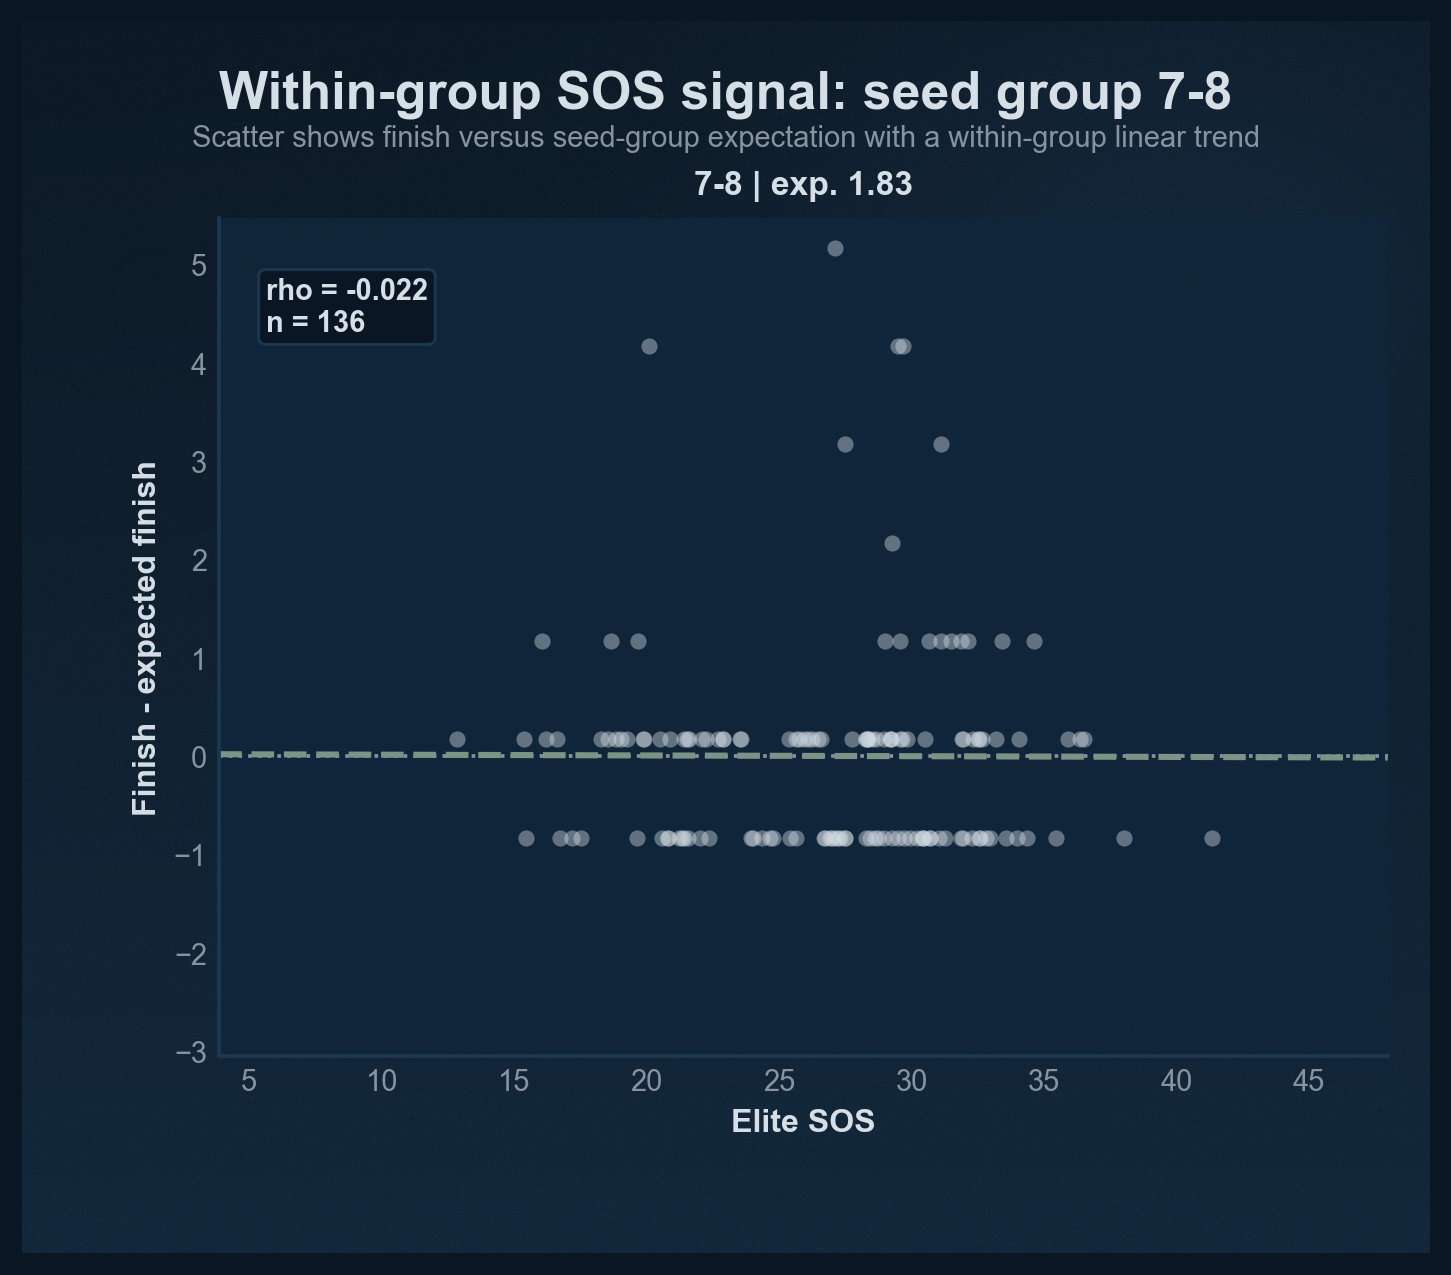
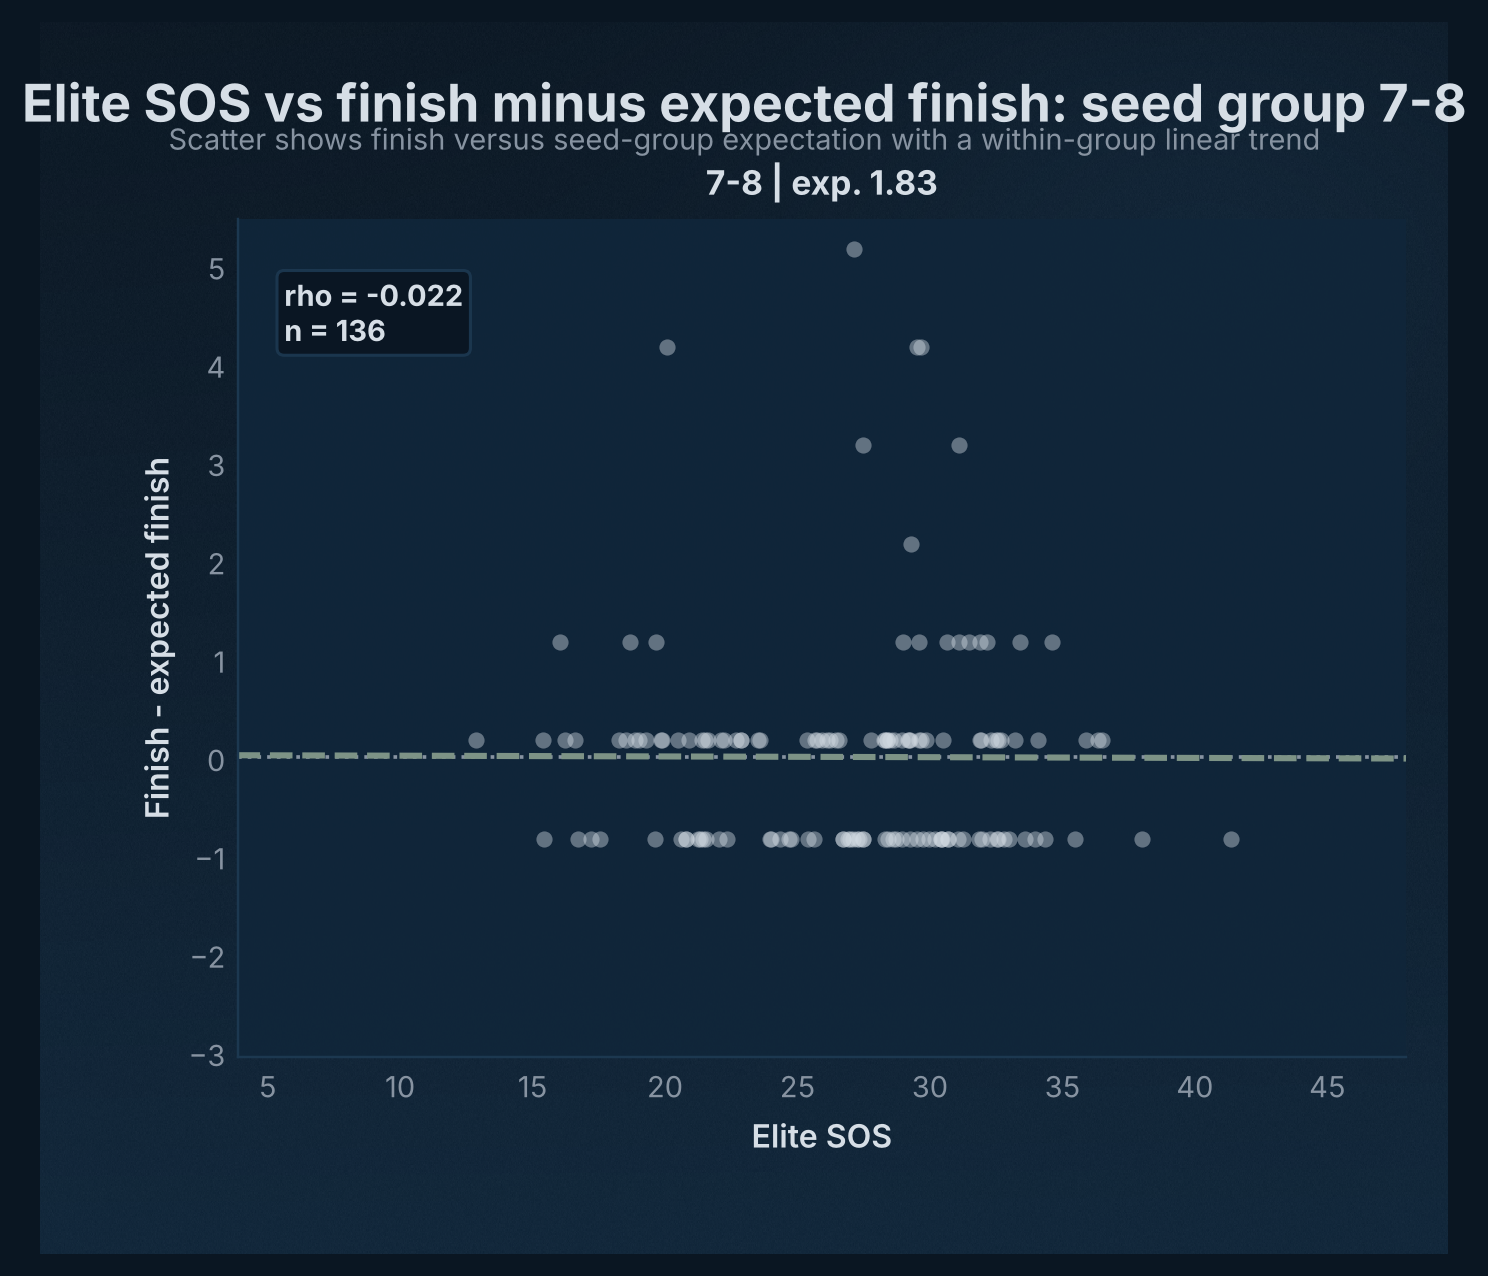
fix(sos): describe what each SOS table measures and correct the heatmap legend

diff --git a/scripts/sos_analysis_02_04.py b/scripts/sos_analysis_02_04.py
@@ -341,7 +341,7 @@ def plot_analysis_02(
     )
 
     fig.suptitle(
-        "Deeper tournament runs came from teams with tougher schedules overall",
+        f"{pretty_metric(primary_metric)} by finish round, all tournaments pooled (raw, not seed-adjusted)",
         fontsize=22,
         fontweight="bold",
         y=0.975,
@@ -537,7 +537,7 @@ def plot_analysis_02_seed_controlled(
     ax.tick_params(axis="x", labelsize=10, length=0, pad=6)
     ax.tick_params(axis="y", labelsize=10, length=0, pad=6)
     fig.suptitle(
-        "After controlling for seed, the SOS relationship is much weaker",
+        f"{pretty_metric(primary_metric)} vs finish, both centered on the exact seed line",
         fontsize=20,
         fontweight="bold",
         y=0.97,
@@ -574,14 +574,6 @@ def build_analysis_03_tables(df: pd.DataFrame, primary_metric: str) -> tuple[pd.
     yearly_df["primary_metric_rho"] = (
         yearly_df["elite_sos_rho"] if primary_metric == "Elite SOS" else yearly_df["conf_avg_barthag_rho"]
     )
-    yearly_df["signal_bucket"] = np.select(
-        [
-            yearly_df["primary_metric_rho"] >= 0.40,
-            yearly_df["primary_metric_rho"] > 0,
-        ],
-        ["Clear positive", "Positive but weaker"],
-        default="Inverse / noisy",
-    )
 
     heatmap = (
         df.groupby(["year", "finish"], as_index=False)[primary_metric]
@@ -604,8 +596,6 @@ def plot_analysis_03(
     rho = yearly_df["primary_metric_rho"].to_numpy(dtype=float)
     strongest = yearly_df.loc[yearly_df["primary_metric_rho"].idxmax()]
     weakest = yearly_df.loc[yearly_df["primary_metric_rho"].idxmin()]
-    positive_count = int((yearly_df["primary_metric_rho"] > 0).sum())
-    clear_count = int((yearly_df["signal_bucket"] == "Clear positive").sum())
 
     cmap = LinearSegmentedColormap.from_list(
         "sos_heatmap",
@@ -644,7 +634,7 @@ def plot_analysis_03(
             bbox=styled_box(),
     )
     ax.annotate(
-        f"Strongest: {int(strongest['year'])}\n{strongest['primary_metric_rho']:.3f}",
+        f"Highest: {int(strongest['year'])}\n{strongest['primary_metric_rho']:.3f}",
         xy=(strongest["year"], strongest["primary_metric_rho"]),
         xytext=(strongest["year"] - 2.5, strongest["primary_metric_rho"] + 0.03),
         arrowprops={"arrowstyle": "->", "color": PROJECT_PALETTE["steel"]},
@@ -653,7 +643,7 @@ def plot_analysis_03(
         bbox=styled_box(),
     )
     ax.annotate(
-        f"Weakest: {int(weakest['year'])}\n{weakest['primary_metric_rho']:.3f}",
+        f"Lowest: {int(weakest['year'])}\n{weakest['primary_metric_rho']:.3f}",
         xy=(weakest["year"], weakest["primary_metric_rho"]),
         xytext=(weakest["year"] + 0.3, weakest["primary_metric_rho"] + 0.03),
         arrowprops={"arrowstyle": "->", "color": PROJECT_PALETTE["steel"]},
@@ -685,7 +675,7 @@ def plot_analysis_03(
     ax.text(
         0.5,
         1.04,
-        "Year-by-year stability",
+        "Raw rho by tournament year",
         transform=ax.transAxes,
         ha="center",
         va="bottom",
@@ -731,7 +721,7 @@ def plot_analysis_03(
     heat_ax.text(
         0.5,
         1.02,
-        "Darker cells mean tougher schedules for teams that reached that round in that year",
+        "Lighter cells mean tougher schedules for teams that reached that round in that year",
         transform=heat_ax.transAxes,
         ha="center",
         va="bottom",
@@ -743,7 +733,7 @@ def plot_analysis_03(
     color_bar.ax.tick_params(labelsize=9.5, length=0)
 
     fig.suptitle(
-        "The SOS signal has peaked in past two years.",
+        f"{pretty_metric(primary_metric)} vs finish by tournament year (raw, not seed-adjusted)",
         fontsize=22,
         fontweight="bold",
         y=0.975,
@@ -850,7 +840,7 @@ def plot_analysis_04(seed_table: pd.DataFrame, seed_points: pd.DataFrame, primar
         ax.set_xlabel(pretty_metric(primary_metric), fontsize=10.5, fontweight="semibold")
 
     fig.suptitle(
-        "Within-group SOS signal is strongest in selective seed bands",
+        f"{pretty_metric(primary_metric)} vs finish minus expected finish, by seed group",
         fontsize=21,
         fontweight="bold",
         y=0.97,
@@ -979,7 +969,7 @@ def plot_analysis_04_individual(
         ax.set_xlabel(pretty_metric(primary_metric), fontsize=10.5, fontweight="semibold")
         ax.set_ylabel("Finish - expected finish", fontsize=10.5, fontweight="semibold")
         fig.suptitle(
-            f"Within-group SOS signal: seed group {seed_group}",
+            f"{pretty_metric(primary_metric)} vs finish minus expected finish: seed group {seed_group}",
             fontsize=17,
             fontweight="bold",
             y=0.96,
@@ -1014,8 +1004,8 @@ def write_analysis_02_summary(
         "",
         f"- Primary metric: `{pretty_metric(primary_metric)}`",
         "- Method: each team is centered against its exact seed-line average finish depth and average SOS.",
-        f"- Headline finding: after controlling for seed, the within-seed Spearman relationship is `{within_seed_rho:.3f}`.",
-        "- Interpretation: the broad pooled gradient is mostly seed structure; the residual SOS relationship inside seed lines is weak.",
+        f"- Measured: with SOS and finish depth both centered on the seed line, the within-seed Spearman relationship is `{within_seed_rho:.3f}`.",
+        "- No significance test here; see `reports/robustness_summary.md` for its bootstrap interval and permutation p-value.",
         "",
         "## Seed Baselines",
         "",
@@ -1039,9 +1029,11 @@ def write_analysis_02_unadjusted_summary(
         "",
         f"- Primary metric: `{pretty_metric(primary_metric)}`",
         f"- Metric rule: {correlation_df['selection_note'].iloc[0]}",
-        f"- Headline finding: champions averaged `{champ_value:.2f}` {pretty_metric(primary_metric)} versus `{r64_value:.2f}` for Round-of-64 exits.",
+        "- Measured: mean and median SOS of the teams that exited in each round, all tournaments pooled, not seed-adjusted.",
+        f"- Champions averaged `{champ_value:.2f}` {pretty_metric(primary_metric)} versus `{r64_value:.2f}` for Round-of-64 exits.",
         f"- Baseline: the field-wide average was `{field_average:.2f}` {pretty_metric(primary_metric)}.",
-        f"- Interpretation: stronger schedules mapped to deeper runs overall, but much of this pooled signal is seed structure.",
+        "- Seed drives both SOS and finish depth, so this gradient is mostly seed structure; the seed-centered view is "
+        "`reports/sos_vs_finish_pooled_summary.md`. No significance test; see `reports/robustness_summary.md`.",
         "",
         "## Pooled Finish Table",
         "",
@@ -1078,15 +1070,17 @@ def write_analysis_03_summary(
         "# SOS Analysis 3: SOS vs Finish by Year",
         "",
         f"- Primary metric: `{pretty_metric(primary_metric)}`",
-        f"- Headline finding: `{positive_count}` of `{len(yearly_df)}` tournament years showed a positive SOS-to-finish relationship.",
-        f"- Strongest year: `{int(strongest['year'])}` at rho `{strongest['primary_metric_rho']:.3f}`.",
-        f"- Weakest year: `{int(weakest['year'])}` at rho `{weakest['primary_metric_rho']:.3f}`.",
-        "- Interpretation: the pooled signal is not a one-off artifact; it shows up every year in this sample.",
+        "- Measured: each tournament year's Spearman correlation between finish depth and SOS, raw and not seed-adjusted.",
+        f"- Positive years: `{positive_count}` of `{len(yearly_df)}`.",
+        f"- Highest year: `{int(strongest['year'])}` at rho `{strongest['primary_metric_rho']:.3f}`.",
+        f"- Lowest year: `{int(weakest['year'])}` at rho `{weakest['primary_metric_rho']:.3f}`.",
+        "- Seed drives both SOS and finish depth, so these raw rhos mostly measure seed structure; the seed-centered view is "
+        "`reports/sos_vs_finish_pooled_summary.md`. No significance test; see `reports/robustness_summary.md`.",
         "",
         "## Yearly Correlations",
         "",
         yearly_df[
-            ["year", "elite_sos_rho", "conf_avg_barthag_rho", "primary_metric_rho", "signal_bucket"]
+            ["year", "elite_sos_rho", "conf_avg_barthag_rho", "primary_metric_rho"]
         ]
         .round(3)
         .to_markdown(index=False),
@@ -1106,9 +1100,10 @@ def write_analysis_04_summary(
         "# SOS Analysis 4: Seed Groups and Finish-vs-Expectation Scatter",
         "",
         f"- Primary metric: `{pretty_metric(primary_metric)}`",
-        f"- Headline finding: seed group `{best_group['seed_group']}` had the strongest within-group Spearman relationship at `{best_group[rho_column]:+.3f}`.",
-        f"- Weakest group: `{weakest_group['seed_group']}` at `{weakest_group[rho_column]:+.3f}`.",
-        "- Interpretation: the SOS signal is not uniform across seed bands; the faceted scatter shows where schedule strength actually tracks overperformance.",
+        "- Measured: inside each seed group, the Spearman correlation between raw SOS and finish minus the group's expected finish depth.",
+        f"- Largest absolute rho: `{best_group['seed_group']}` at `{best_group[rho_column]:+.3f}`.",
+        f"- Smallest absolute rho: `{weakest_group['seed_group']}` at `{weakest_group[rho_column]:+.3f}`.",
+        "- No significance test here; see `reports/robustness_summary.md`, where none of these band cells survives the pooled multiple-comparison check.",
         "",
         "## Seed Group Summary",
         "",

diff --git a/scripts/sos_analysis_05_07.py b/scripts/sos_analysis_05_07.py
@@ -514,7 +514,7 @@ def plot_analysis_05a(over_df: pd.DataFrame, primary_metric: str, metric_summary
     ax.tick_params(axis="x", labelsize=10, length=0, pad=6)
     ax.tick_params(axis="y", labelsize=10, length=0, pad=6)
     fig.suptitle(
-        "Raw SOS barely explains who beats seed expectation",
+        f"{pretty_metric(primary_metric)} vs finish minus exact-seed expectation",
         fontsize=21,
         fontweight="bold",
         y=0.97,
@@ -678,10 +678,14 @@ def plot_analysis_06(era_table: pd.DataFrame, out_path: Path) -> None:
         values = era_table[column].to_numpy(dtype=float)
         ax.plot(x, values, color=ACCENT, linewidth=2.4, marker="o", markersize=7)
         ax.axhline(0, color=SECONDARY, linestyle=":", linewidth=1.2)
+        # Headroom above the highest point keeps its value label below the panel title.
+        low, high = min(float(values.min()), 0.0), max(float(values.max()), 0.0)
+        span = high - low
+        ax.set_ylim(low - 0.10 * span, high + 0.30 * span)
         for idx, value in enumerate(values):
             ax.text(
                 idx,
-                value + 0.018,
+                value + 0.05 * span,
                 f"{value:+.3f}",
                 ha="center",
                 va="bottom",
@@ -702,7 +706,7 @@ def plot_analysis_06(era_table: pd.DataFrame, out_path: Path) -> None:
     axes[-1].set_xlabel("Era", fontsize=11, fontweight="semibold")
     axes[1].set_ylabel("Spearman rho", fontsize=11, fontweight="semibold")
     fig.suptitle(
-        "SOS matters more in modern tournament eras than it did early in the sample",
+        "SOS rho by era: pooled raw, exact-seed adjusted, and seeds 11-13",
         fontsize=21,
         fontweight="bold",
         y=0.97,
@@ -710,7 +714,7 @@ def plot_analysis_06(era_table: pd.DataFrame, out_path: Path) -> None:
     fig.text(
         0.5,
         0.92,
-        "Eras use the 2012 structural shift and the 2022 transfer-rules breakpoint established earlier",
+        "Eras: " + ", ".join(label for label, _, _ in ERAS) + " (2022 = current transfer rules); descriptive, no significance test",
         ha="center",
         va="center",
         fontsize=9.5,

diff --git a/reports/sos_vs_finish_by_year_summary.md b/reports/sos_vs_finish_by_year_summary.md
@@ -1,29 +1,30 @@
 # SOS Analysis 3: SOS vs Finish by Year
 
 - Primary metric: `Elite SOS`
-- Headline finding: `17` of `17` tournament years showed a positive SOS-to-finish relationship.
-- Strongest year: `2025` at rho `0.621`.
-- Weakest year: `2010` at rho `0.329`.
-- Interpretation: the pooled signal is not a one-off artifact; it shows up every year in this sample.
+- Measured: each tournament year's Spearman correlation between finish depth and SOS, raw and not seed-adjusted.
+- Positive years: `17` of `17`.
+- Highest year: `2025` at rho `0.621`.
+- Lowest year: `2010` at rho `0.329`.
+- Seed drives both SOS and finish depth, so these raw rhos mostly measure seed structure; the seed-centered view is `reports/sos_vs_finish_pooled_summary.md`. No significance test; see `reports/robustness_summary.md`.
 
 ## Yearly Correlations
 
-|   year |   elite_sos_rho |   conf_avg_barthag_rho |   primary_metric_rho | signal_bucket       |
-|-------:|----------------:|-----------------------:|---------------------:|:--------------------|
-|   2008 |           0.439 |                  0.445 |                0.439 | Clear positive      |
-|   2009 |           0.499 |                  0.412 |                0.499 | Clear positive      |
-|   2010 |           0.329 |                  0.326 |                0.329 | Positive but weaker |
-|   2011 |           0.358 |                  0.338 |                0.358 | Positive but weaker |
-|   2012 |           0.465 |                  0.45  |                0.465 | Clear positive      |
-|   2013 |           0.41  |                  0.39  |                0.41  | Clear positive      |
-|   2014 |           0.427 |                  0.342 |                0.427 | Clear positive      |
-|   2015 |           0.47  |                  0.405 |                0.47  | Clear positive      |
-|   2016 |           0.426 |                  0.358 |                0.426 | Clear positive      |
-|   2017 |           0.48  |                  0.446 |                0.48  | Clear positive      |
-|   2018 |           0.439 |                  0.405 |                0.439 | Clear positive      |
-|   2019 |           0.535 |                  0.485 |                0.535 | Clear positive      |
-|   2021 |           0.348 |                  0.449 |                0.348 | Positive but weaker |
-|   2022 |           0.494 |                  0.467 |                0.494 | Clear positive      |
-|   2023 |           0.381 |                  0.363 |                0.381 | Positive but weaker |
-|   2024 |           0.567 |                  0.386 |                0.567 | Clear positive      |
-|   2025 |           0.621 |                  0.575 |                0.621 | Clear positive      |
+|   year |   elite_sos_rho |   conf_avg_barthag_rho |   primary_metric_rho |
+|-------:|----------------:|-----------------------:|---------------------:|
+|   2008 |           0.439 |                  0.445 |                0.439 |
+|   2009 |           0.499 |                  0.412 |                0.499 |
+|   2010 |           0.329 |                  0.326 |                0.329 |
+|   2011 |           0.358 |                  0.338 |                0.358 |
+|   2012 |           0.465 |                  0.45  |                0.465 |
+|   2013 |           0.41  |                  0.39  |                0.41  |
+|   2014 |           0.427 |                  0.342 |                0.427 |
+|   2015 |           0.47  |                  0.405 |                0.47  |
+|   2016 |           0.426 |                  0.358 |                0.426 |
+|   2017 |           0.48  |                  0.446 |                0.48  |
+|   2018 |           0.439 |                  0.405 |                0.439 |
+|   2019 |           0.535 |                  0.485 |                0.535 |
+|   2021 |           0.348 |                  0.449 |                0.348 |
+|   2022 |           0.494 |                  0.467 |                0.494 |
+|   2023 |           0.381 |                  0.363 |                0.381 |
+|   2024 |           0.567 |                  0.386 |                0.567 |
+|   2025 |           0.621 |                  0.575 |                0.621 |

diff --git a/reports/sos_vs_finish_pooled_unadjusted_summary.md b/reports/sos_vs_finish_pooled_unadjusted_summary.md
@@ -2,9 +2,10 @@
 
 - Primary metric: `Elite SOS`
 - Metric rule: Elite SOS led by only 0.029 rho, below the 0.05 switch threshold.
-- Headline finding: champions averaged `31.95` Elite SOS versus `19.99` for Round-of-64 exits.
+- Measured: mean and median SOS of the teams that exited in each round, all tournaments pooled, not seed-adjusted.
+- Champions averaged `31.95` Elite SOS versus `19.99` for Round-of-64 exits.
 - Baseline: the field-wide average was `23.96` Elite SOS.
-- Interpretation: stronger schedules mapped to deeper runs overall, but much of this pooled signal is seed structure.
+- Seed drives both SOS and finish depth, so this gradient is mostly seed structure; the seed-centered view is `reports/sos_vs_finish_pooled_summary.md`. No significance test; see `reports/robustness_summary.md`.
 
 ## Pooled Finish Table
 

diff --git a/reports/sos_vs_finish_by_seed_group_summary.md b/reports/sos_vs_finish_by_seed_group_summary.md
@@ -1,9 +1,10 @@
 # SOS Analysis 4: Seed Groups and Finish-vs-Expectation Scatter
 
 - Primary metric: `Elite SOS`
-- Headline finding: seed group `11-13` had the strongest within-group Spearman relationship at `+0.313`.
-- Weakest group: `3-4` at `-0.008`.
-- Interpretation: the SOS signal is not uniform across seed bands; the faceted scatter shows where schedule strength actually tracks overperformance.
+- Measured: inside each seed group, the Spearman correlation between raw SOS and finish minus the group's expected finish depth.
+- Largest absolute rho: `11-13` at `+0.313`.
+- Smallest absolute rho: `3-4` at `-0.008`.
+- No significance test here; see `reports/robustness_summary.md`, where none of these band cells survives the pooled multiple-comparison check.
 
 ## Seed Group Summary
 

diff --git a/reports/sos_vs_finish_pooled_summary.md b/reports/sos_vs_finish_pooled_summary.md
@@ -2,8 +2,8 @@
 
 - Primary metric: `Elite SOS`
 - Method: each team is centered against its exact seed-line average finish depth and average SOS.
-- Headline finding: after controlling for seed, the within-seed Spearman relationship is `0.061`.
-- Interpretation: the broad pooled gradient is mostly seed structure; the residual SOS relationship inside seed lines is weak.
+- Measured: with SOS and finish depth both centered on the seed line, the within-seed Spearman relationship is `0.061`.
+- No significance test here; see `reports/robustness_summary.md` for its bootstrap interval and permutation p-value.
 
 ## Seed Baselines
 
